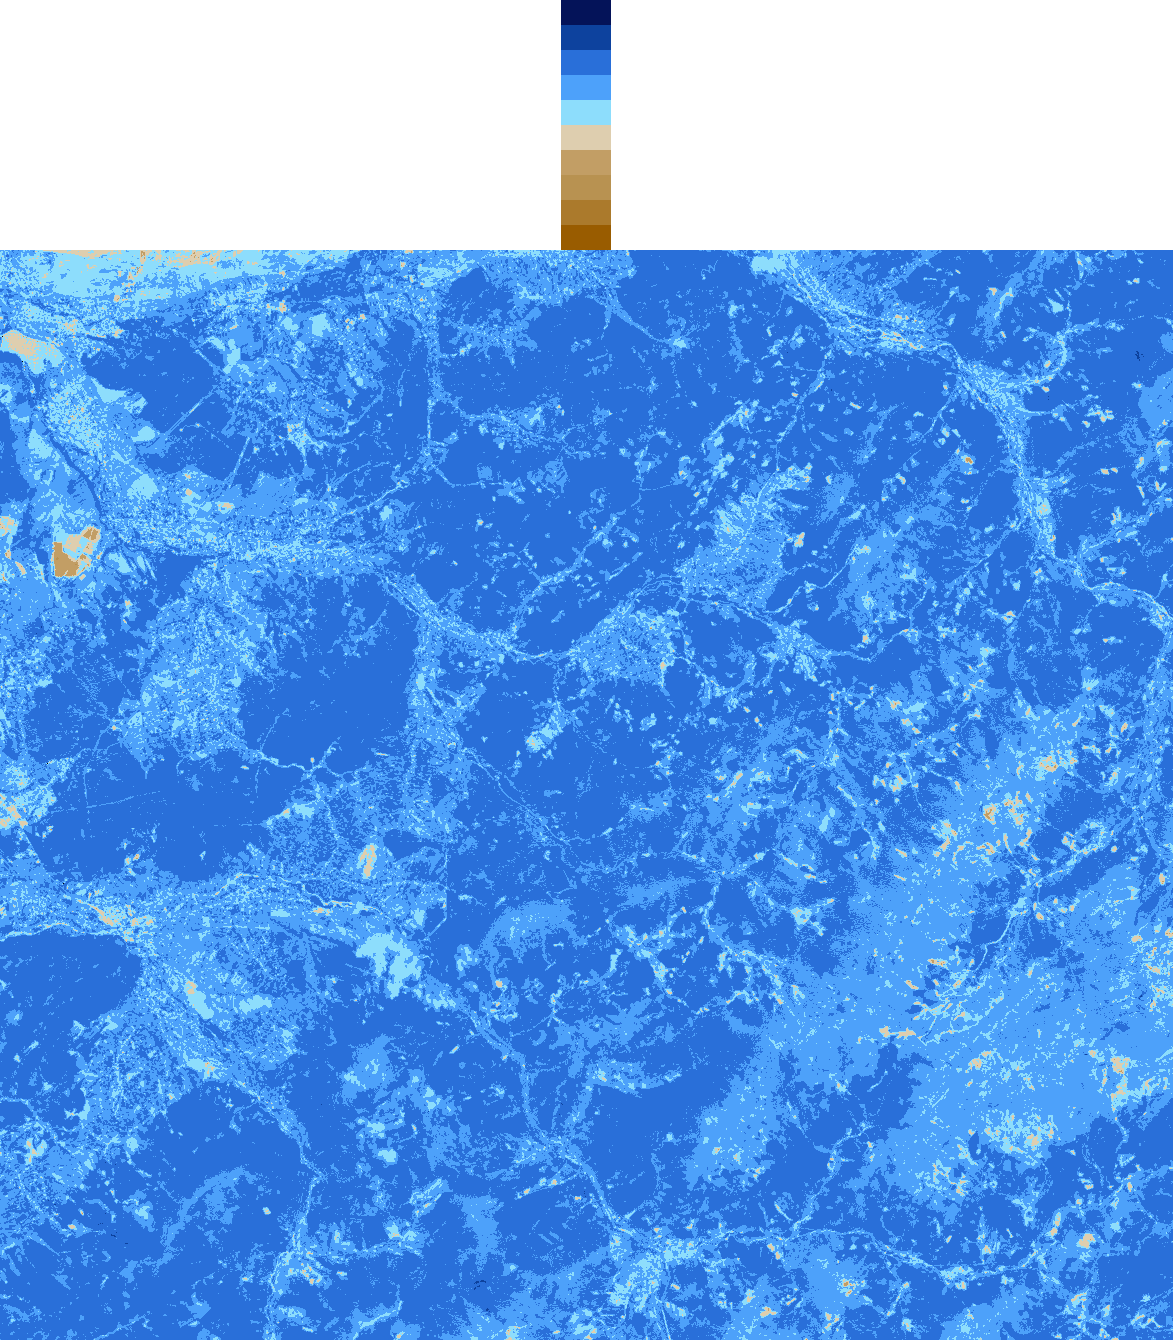
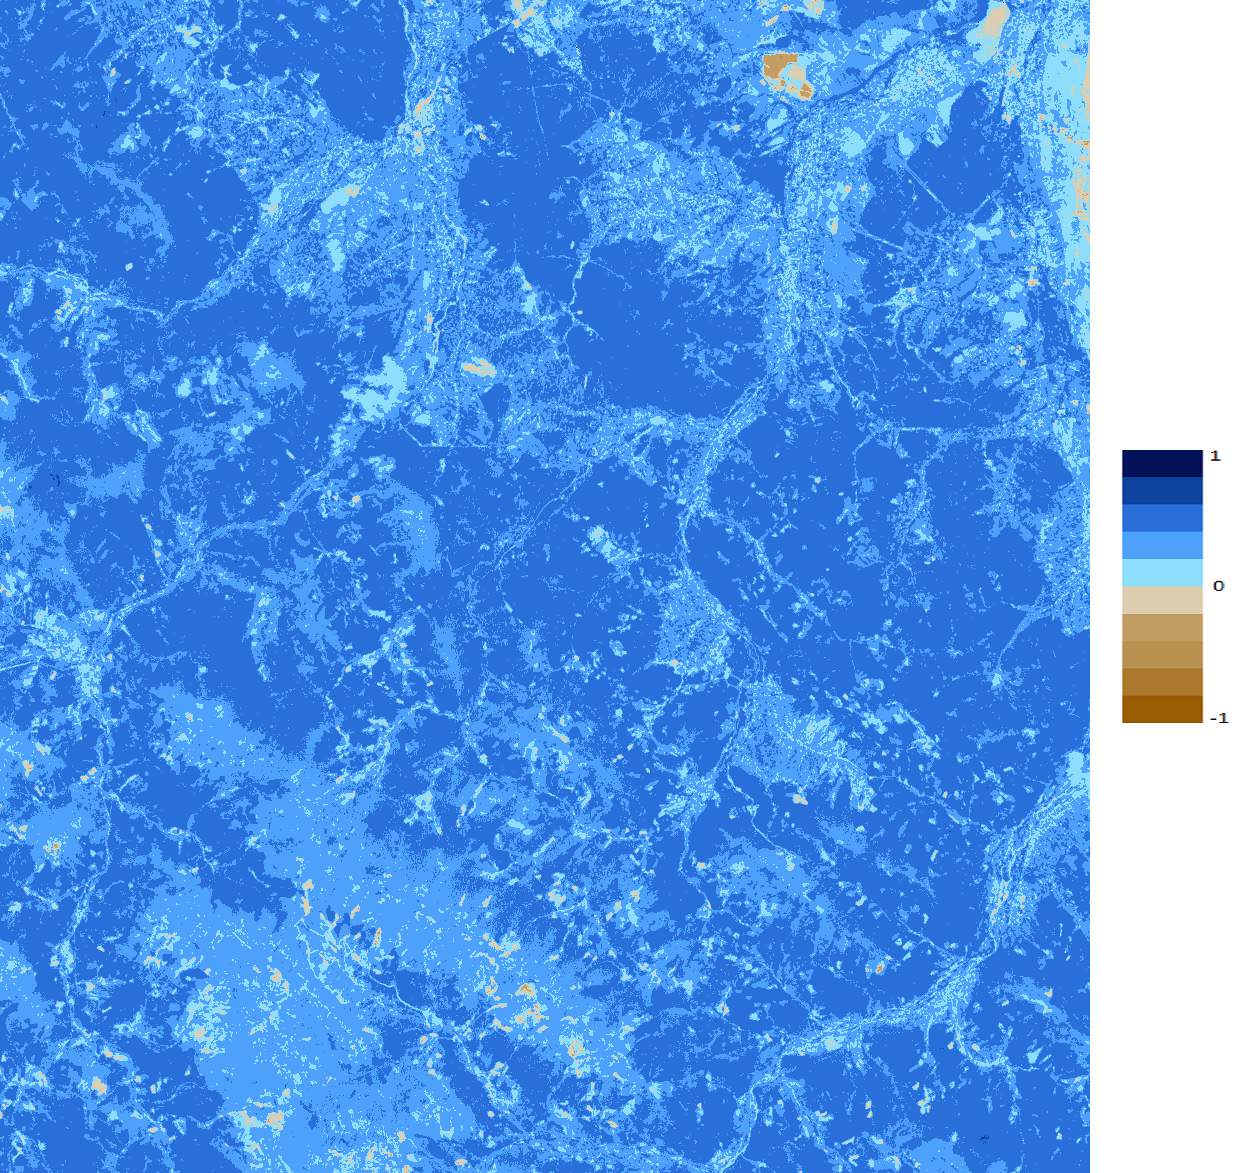
Добавил легенду в nDWI и температурный сервис

diff --git a/EMS.net/EMS/Services/CharacterizationService/CharacterizationService/Processors/Temperature/TemperatureCharacterizationProcessor.cs b/EMS.net/EMS/Services/CharacterizationService/CharacterizationService/Processors/Temperature/TemperatureCharacterizationProcessor.cs
@@ -11,6 +11,7 @@ using Common.Objects;
 using Common.Objects.Landsat;
 using DeterminingPhenomenonService.Helpers;
 using DeterminingPhenomenonService.Objects;
+using DrawImageLibrary;
 using OSGeo.GDAL;
 using Topshelf.Logging;
 
@@ -25,10 +26,9 @@ namespace CharacterizationService.Processors.Temperature
         public override string[] Process(IGeographicPoint leftUpper, IGeographicPoint rigthLower, string dataFolder,
             string resultFolder)
         {
-            //@"C:\Users\User\Downloads\Карпаты2\185026_20160826\");
             var folderDescription = new LandsatDataDescription(dataFolder);
 
-            var path = folderDescription; //@"C:\Users\User\Downloads\Карпаты2\185026_20160826\";
+            var path = folderDescription; 
             LandsatMetadata metadataFile = JsonHelper.Deserialize<LandsatMetadata>(folderDescription.MetadataMtlJson);
             TirsThermalConstants thermalConstants = metadataFile.L1MetadataFile.TirsThermalConstants;
             var cuttedImageInfo =
@@ -88,15 +88,15 @@ namespace CharacterizationService.Processors.Temperature
             };
             using (band)
             {
-                var width = cuttedImageInfo.Width;//band.XSize;
-                var heigth = cuttedImageInfo.Height;//band.YSize;
+                var width = cuttedImageInfo.Width;
+                var heigth = cuttedImageInfo.Height;
                 var legend = new Legend(5, 45, 5, Color.Yellow, Color.Red);
                 double max = -100000;
                 double min = 100000;
-                legend.GetLegend().Save(resultFolder + "legend.png");
 
 
-                using (var bmp = new Bitmap(width, heigth))
+
+                using (var bmp = DrawLib.CreateImageWithLegend(cuttedImageInfo.Width, cuttedImageInfo.Height, @"..\..\Content\temperature.png"))
                 {
                     for (var row = 0; row < heigth; row++)
                     {
@@ -128,7 +128,6 @@ namespace CharacterizationService.Processors.Temperature
                     }
 
                     bmp.Save(resultFilename);
-                    legend.GetLegend().Save(resultFolder + "legent_2016_karpati.png");
                 }
             }
         }

diff --git a/EMS.net/EMS/Services/CharacterizationService/CharacterizationService/Processors/NDWI/NDWICharacterizationProcessor.cs b/EMS.net/EMS/Services/CharacterizationService/CharacterizationService/Processors/NDWI/NDWICharacterizationProcessor.cs
@@ -11,6 +11,7 @@ using Common.Objects.Landsat;
 using Common.PointsReaders;
 using DeterminingPhenomenonService.Helpers;
 using DeterminingPhenomenonService.Objects;
+using DrawImageLibrary;
 using Topshelf.Logging;
 
 namespace CharacterizationService.Processors.NDWI
@@ -35,7 +36,7 @@ namespace CharacterizationService.Processors.NDWI
             CalculateNDWI(landsatDecription.Channel5.Normalized, landsatDecription.Channel6.Normalized,
                 cuttedImageInfo, resultFolder);
 
-            return new[] {"info"};
+            return new[] { resultFolder  + "ndwi_karpati_2016.png" };
         }
 
         public void CalculateNDWI(string channel5, string channel6, CuttedImageInfo cuttedImageInfo, string resultFolder)
@@ -58,7 +59,7 @@ namespace CharacterizationService.Processors.NDWI
             var legend = new Legend(ndwiRanges.ToArray());
             var nirBuffer = ClipImageHelper.ReadBufferByIndexes(cuttedImageInfo, nirChannel);
             var swirBuffer = ClipImageHelper.ReadBufferByIndexes(cuttedImageInfo, swirChannel);
-            using (var bmp = new Bitmap(cuttedImageInfo.Width, cuttedImageInfo.Height))
+            using (var bmp = DrawLib.CreateImageWithLegend(cuttedImageInfo.Width, cuttedImageInfo.Height, @"..\..\Content\NDWI.png"))
             {
                 for (var row = 0; row < cuttedImageInfo.Height; row++)
                 {
@@ -74,7 +75,6 @@ namespace CharacterizationService.Processors.NDWI
                 }
 
                 bmp.Save(resultFolder + "ndwi_karpati_2016.png");
-                legend.GetLegend().Save(resultFolder + "legend_ndwi_karpati_2016.png");
             }
         }
 

diff --git a/EMS.net/EMS/Stubs/CharacterizationServiceStub/Program.cs b/EMS.net/EMS/Stubs/CharacterizationServiceStub/Program.cs
@@ -23,7 +23,7 @@ namespace CharacterizationServiceStub
                         SatelliteType = SatelliteType.Landsat8,
                         DataFolder = @"C:\diplom\EMS.nodejs\external\sortDownloadData\Landsat_8_C1\2018-05-12\185026",
                         ResultFolder = @"C:\diplom\",
-                        CharacteristicType = CharacteristicType.Temperature
+                        CharacteristicType = CharacteristicType.NDWI
                     }
                 },
                 LeftUpper = new
